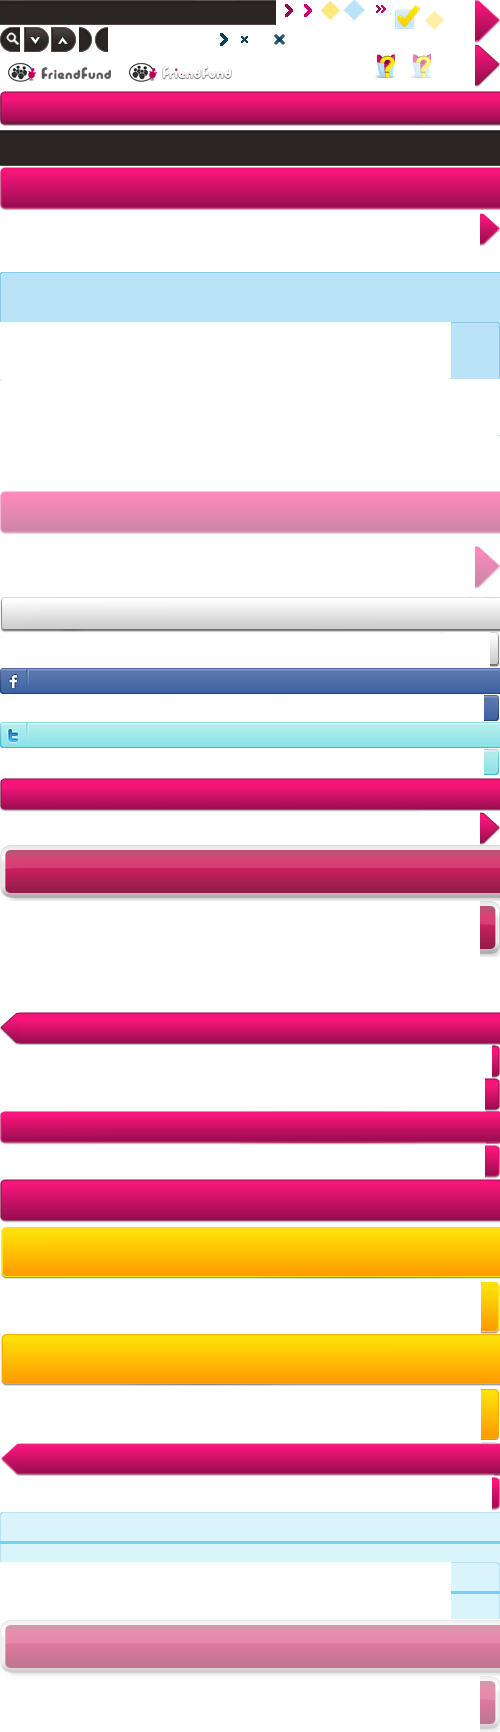
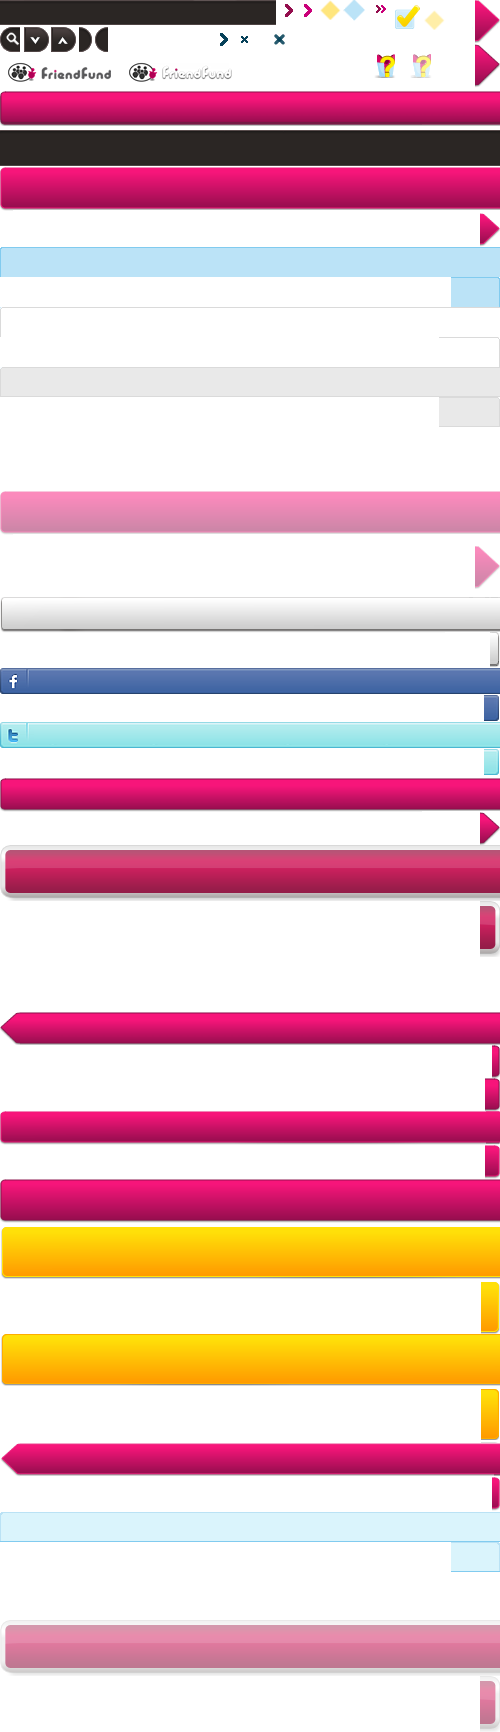
pool admin page redesign starting and datewidget restyle

Changed region(s): [[0.0, 0.1247, 1.0, 0.2494], [0.0, 0.873, 0.9, 0.9042], [0.9, 0.873, 1.0, 0.9353]]

diff --git a/friendfund/public/css/message_block.css b/friendfund/public/css/message_block.css
@@ -272,94 +272,22 @@ input.small{width:50px;}
 	margin-bottom: 0
 }
 
-.inputcontainer {
-	position: relative;
-	float: left;
-	width: 100%;
-	padding-bottom: 5px;
-}
-#button_panel.product .inputcontainer{
- padding-bottom: 15px;
- background:url("/static/imgs/rounded-corner-big.png") no-repeat scroll 0 0 white;
-}
+.inputcontainer {position: relative;float: left;width: 100%;padding-bottom: 5px;}
+input.default {color: #999 !important;}
+.black_labeled_input {-moz-border-radius: 10px 10px 10px 10px;background: none repeat scroll 0 0 #EEF8FD;border: 1px solid #BBE3F7;padding: 2px 24px 2px 4px;}
+.black_labeled_input.dijitTextBox {margin: 0 0 10px;padding: 0px 24px 0px 4px;}
 
-label.black_labeled_container {
-	position: relative;
-	float: left;
-	padding-right: 30px;
-	font-size: 20px;
-	font-weight: bold;
-	color: #403834;
-	font-family: "Trebuchet MS", Helvetica, Jamrul, Arial, sans-serif;
-}
-div.black_labeled_container, div.white_labeled_container {
-	position: relative;
-	height:25px;
-	float: left;
-	margin-left: 12px;
-}
+.black_labeled_input .dijitInputField {color:#333;margin:2px 5px 0 !important;}
+.black_labeled_input .dijitTextBox {border: 0px solid transparent;color: #333;z-index:2px;}
+.dijitTextBoxError,
+	.dijitTextBoxError .dijitInputContainer {background-color: transparent !important;}
+.dijitTextBoxFocused .dijitInputContainer, 
+	.dijitTextBox {background-color: #EEF8FD !important;color: #333 !important;width: auto;}
 
-div.black_labeled_container.right, div.white_labeled_container.right {float: right;}
-label.black_labeled_container.right {float: right;}
+.dijitTooltipContainer {left: 10px;}
+.claro .dijitTextBox .dijitInputInner {padding: 1px 2px 1px 0;}
 
-div.black_labeled_container div.right_bracket {
-	position: absolute;
-	top: 0px;
-	height:25px;
-	width:12px;
-	right: -12px;
-	background: url(../imgs/inputfield.png?20101129) -80px -27px no-repeat;
-}
-div.black_labeled_container div.left_bracket {
-	position: absolute;
-	top: 0px;
-	height:25px;
-	width:10px;
-	left: -10px;
-	background: url(../imgs/inputfield.png?20101129) -95px -27px no-repeat;
-}
-div.black_labeled_container .black_labeled_input {
-	position: absolute;
-	left:0px;
-	padding:5px 0 4px;
-	height:16px;
-	color: #ffffff;
-	font-size: 13px;
-	border: 0px solid transparent;
-	background: url(../imgs/inputfield.png?20101129) 0px 0px no-repeat;
-}
 
-input.default {
-	color: #999 !important;
-}
-
-div.black_labeled_container input.black_labeled_input:focus div.black_labeled_container .black_labeled_input input:focus {
-	border: 0px solid transparent;
-	outline: none;
-}
-div.black_labeled_container a.button_open_down {
-	position: absolute;
-	top: 0px;
-	right: -20px;
-	width: 25px;
-	height: 25px;
-	cursor:pointer;
-	background: url(../imgs/inputfield.png?20101129) -24px -27px no-repeat;
-}
-div.black_labeled_container .black_labeled_input * {
-	color: #ffffff;
-}
-div.black_labeled_container .black_labeled_input div.dijitInputField {
-	margin: 5px 5px 0px 5px;
-	color: #ffffff;
-}
-div.black_labeled_container .black_labeled_input .dijitTextBox {
-	border: 0px solid transparent;
-	color: #ffffff;
-	width:90px;
-	margin-top:-5px;
-	z-index:2px;
-}
 div.black_labeled_container a.left_button_search {
 	position: absolute;
 	top: 0px;
@@ -537,8 +465,9 @@ a.panel_closer {
 	background-color: #BBE3F7;
 	line-height: 140%;
 }
-#pool_admin_slogan .slogan {margin: 10px;}
+#pool_admin_slogan .slogan {margin: 5px 10px 10px;}
 #pool_admin_slogan .sloganText {padding-top:5px;font-size: 12px;overflow:hidden}
+#description_editor.editable  .sloganText { background-color: white;font-size: 12px;overflow: hidden;padding: 5px 10px;margin-top:10px;}
 
 
 /*=========================================== Contributors ===========================================*/
@@ -716,7 +645,7 @@ div#fundstream.recentactivity div.rabodycol img {position: relative;width: 161px
 div#fundstream.recentactivity div.rabodycol img.profile {width: 120px;}
 
 
-div#mypools.recentactivity {position:relative;float: left;}
+div#mypools.recentactivity {position:relative;float: left;border-top: 1px solid #DADADA;}
 div#mypools.recentactivity div.raheader{background-color:#BBE3F7;padding-bottom:55px;padding-top:30px;}
 div#mypools.recentactivity div.raheadercol{border-bottom: dotted 3px white;margin: 0px 20px 0px 0px; 
 			position:relative;float: left;text-align: center;
@@ -967,10 +896,7 @@ width:13px; margin: 0 !important; }
 .spacerInput{ padding-bottom: 12px}
 #poolactions{ margin: 0 0 0 30px }
 
-div.black_labeled_container .black_labeled_input div.dijitInputField {
-	color:#FFFFFF;
-	margin:2px 5px 0 !important;
-}
+
 .marginRight30{ margin-right: 30px; width:425px;}
 .marginRight45{ margin-right: 45px; width:410px;}
 
@@ -1045,5 +971,5 @@ div.rcptProductPicture{margin:15px 0px; background: #fff;float:left; border:#ccc
 
 .editIcon {position:absolute;display:block;width:25px;height:25px;top:10px;right:-10px;background:url("../imgs/edit-icon.png") no-repeat scroll 0px 0px transparent;cursor:pointer;z-index:3}
 .raisedEditIcon {background: transparent url("http://dev.friendfund.de/static/imgs/edit-icon.png") scroll 100% 0px no-repeat;
-				cursor: pointer;display: block;height: 25px;padding: 9px 29px 0 ;position: absolute;right: 0px;top: -28px;z-index: 3;}
+				cursor: pointer;display: block;height: 25px;padding: 9px 29px 0 ;position: absolute;right: 10px;top: 5px;z-index: 3;}
 #thankyou_editor .editIcon{right:-10px;top:23px;}

diff --git a/friendfund/public/css/site.css b/friendfund/public/css/site.css
@@ -313,11 +313,6 @@ div#occasion_button_bar {
 	font-weight:bold;
 	text-align:center;
 }
-.dijitTextBoxFocused .dijitInputContainer, .dijitTextBox {background-color: transparent !important;color: #ffffff !important;}
-.dijitTextBoxError,  .dijitTextBoxError .dijitInputContainer {background-color: transparent !important;}
-.dijitTextBoxError input.dijitValidationInner, .dijitTextBox input.dijitArrowButtonInner {height: 20px !important;}
-.dijitTooltipContainer {left: 10px;}
-
 #product_suggestions {
 	padding-bottom:20px;
 	float:left;
@@ -468,13 +463,11 @@ label.fb_filter {font-weight:bold;}
 .TabsContainer{ float: left; padding-left: 10px;width:880px}
 a.methodselector{display: block; position: relative; z-index: 2; float: left;margin-left: 5px;padding-right:15px;font-size:14px;font-weight:bold;font-family:"Trebuchet MS";text-align:center}
 a.methodselector img{position:relative;top:3px;}
-a.methodselector.ajaxlink{background:url("../imgs/inputfield.png?20101129") no-repeat scroll 100% -1562px transparent;min-width:145px;}
-
 a.methodselector span {padding:0 0 0 15px;color:#403834;display:block;line-height:30px; height:30px;}
+a.methodselector.ajaxlink{background:url("../imgs/inputfield.png?20101129") no-repeat scroll 100% -1542px transparent;min-width:145px;}
 a.methodselector.ajaxlink span {cursor:pointer;background:url("../imgs/inputfield.png?20101129") no-repeat scroll 0 -1512px transparent;}
-
-a.methodselector.selected {background:url("../imgs/inputfield.png?20101129") no-repeat scroll 100% -322px transparent;}
-a.methodselector.selected span {background:url("../imgs/inputfield.png?20101129") no-repeat scroll 0 -272px transparent;}
+a.methodselector.selected {background-position:100% -277px;}
+a.methodselector.selected span {background-position:0 -247px;}
 
 
 #lowerbody_container.fullbackground{background-color: #BBE3F7;}
@@ -922,21 +915,20 @@ div.window_container  div.window div.popupContent ol li{
 	padding: 0px 30px 30px;
 }
 .tabContainer {
-	background-color:#E9E9E9;
-	border-bottom:1px solid #DADADA;
-	height:35px;
-	left:0;
-	padding:18px 0 0 30px;
-	position:relative;
-	top:-9px;
-	width:950px;
-	z-index:2;
+	float: left;
+	background-color: #E9E9E9;
+	margin-top: -9px;
+	padding: 18px 0px 0px 30px;
+	position: relative;
+	width: 950px;
+	z-index: 2;
 }
-.tabContainer a {	 color:#403834;display:block;float:left;padding-right:15px;text-align:center;}
-.tabContainer a span {color:#403834;display:block;float:left;
-	cursor:pointer;font-size:18px;padding:7px 0px 8px 15px;font-family: Trebuchet MS,Arial;}
-.tabContainer a.selected {background:url("../imgs/inputfield.png?20101129") no-repeat scroll 100% -435px transparent;}
-.tabContainer a.selected span {background:url("../imgs/inputfield.png?20101129") no-repeat scroll 0 -379px transparent;}
+.tabContainer a { margin: 0 15px -1px 0;color: #403834;display: block;float: left;min-width: 145px;padding-right: 15px;text-align: center;background:url("../imgs/inputfield.png?20101129") no-repeat scroll 100% -397px transparent;}
+.tabContainer a span {color: #403834;cursor: pointer;display: block;padding-left: 15px;font-size:14px;font-weight:bold;font-family:"Trebuchet MS";height: 30px;line-height: 30px;background:url("../imgs/inputfield.png?20101129") no-repeat scroll 0 -367px transparent;}
+
+.tabContainer a.selected {background-position:100% -337px;}
+.tabContainer a.selected span {background-position:0 -307px;}
+
 
 .subCategories{clear:both; font-size: 20px ; font-weight: bold; color: #403834; height: 47px; line-height: 47px;padding-top: 28px; font-family: Trebuchet MS,Arial}
 .tooltipBoxMyPools{ height: 45px; background:none repeat scroll 0 0 #403835; position: relative}
@@ -1030,7 +1022,7 @@ h2.small{ font-size: 20px !important}
 .maleFemale label{ display:block !important;width:90px !important; float:left !important; margin:0 0 0 5px !important}
 .maleFemale input{ display:block !important;width:15px !important; float:left}
 .passwordFields .maleFemale label{ float: right !important;}
-#poolsettings{ margin:0 30px 30px 30px}
+#poolsettings{ clear:both; padding:30px 0px 0px}
 
 #contributioncontainer{ margin:0px 30px 30px; padding-top: 5px !important}
 

diff --git a/friendfund/templates/occasion/panel.html b/friendfund/templates/occasion/panel.html
@@ -12,13 +12,13 @@ from datetime import date, timedelta
 	${html.clearline()|n}
 	<div id="occasion_button_bar">
 		%for occ in c.olist:
-			<a href="#" class="occasion_panel_button">
+			<a class="occasion_panel_button">
 				<div class="selector ${c.key != occ.key and ' ' or 'selected'}" imgurl="/static/imgs/${occ.picture_url}" 
 					custom="${int(occ.custom or 0)}" key="${occ.key}" displayname="${occ.get_display_name()}" date="${occ.internal_date_format}">
 					<img src="/static/imgs/${occ.picture_url}"/>
 					<div class="label">
 					%if occ.custom:
-						${forms.black_input_text(occ.key, "name", value=c.name, default=_("EVENT_PANEL_Just because..."), width=106)}
+						<input class="black_labeled_input default" _default_text="${_("EVENT_PANEL_Just because...")}" type="text" id="${occ.key}" name="name" value="${c.name or _("EVENT_PANEL_Just because...")}" style="width:106px;"/>
 					%else:
 						${occ.get_display_name()}
 					%endif
@@ -30,8 +30,9 @@ from datetime import date, timedelta
 			<div style="margin-right:50px;"> 
 				<a class="submitSmall occasion_submitter"><span>${_("EVENT_PANEL_Submit")}</span></a>
 			</div>
+			${_("EVENT_PANEL_And Pick a Date")}
 			<div style="top: 5px; position: relative;float:right;margin-right:50px;">
-				${forms.black_input_datepicker("datestamp", "datestamp", c.date, label=_("EVENT_PANEL_And Pick a Date"), width=100, args=[("constraints", "{min:'%s'}"%c.lower_limit_date)])|n}
+				<div id="datestamp" jsid="datestamp" type="text" class="black_labeled_input" name="datestamp" value="${c.date}" dojoType="dijit.form.DateTextBox" constraints="{min:'${c.lower_limit_date}'}"></div>
 			</div>
 		</div>
 	</div>

diff --git a/friendfund/templates/pool/settings_admin.html b/friendfund/templates/pool/settings_admin.html
@@ -5,6 +5,7 @@
 <%namespace name="actions" file="actions/settings_action.html"/>
 <%namespace name="actions_content" file="actions/settings_action_content.html"/>
 <%namespace name="description" file="parts/description.html"/>
+<%namespace name="settings_common" file="parts/settings.html"/>
 
 <%def name="scripts()">
 	${links.js('friendfund/AutoRotator.js')}
@@ -99,15 +100,16 @@
 
 
 <%def name="title()">${_("POOLSETTINGS_TITLE_Pool Admin")}</%def>
-<%def name="page_slogan()">
-	<div id="page_slogan">${_("POOLSETTINGS_LABEL_Pool Admin")}</div>
-</%def>
-
+${settings_common.render_tabs("mypools")|n}
+<div style="clear"both;height:30px;"></div>
 	
+<div id="poolsettings">
 	<div id="pool_admin_slogan"><div class="slogan">${description.view(c.pool)|n}</div></div>
 	<div id="pool_admin_pic"><img src="${c.pool.admin.get_profile_pic()}"/></div>
-	${html.clearline(15)|n}
-<div id="poolsettings" class="innerbody">
+	
+	
+	
+	<div id="lowerbody" class="innerbody">
 	%if c.psettings.is_funded() or c.psettings.actions:
 	<div  class="panel_title" style="clear:both">
 		${_("POOLSETTINGS_LABEL_Actions:")}
@@ -140,8 +142,9 @@
 		</div>
 	%endif
 	${html.clearline()|n}
-	<div style="padding:20px 30px;float:left;width:880px;">
+	<div style="padding:20px 30px;float:left;width:860px;">
 		<a class="submitSmallLeft" href="${url('ctrlpoolindex', controller='pool', pool_url=c.pool_url)}"><span>${_("POOLSETTINGS_LABEL_Back To Pool")}</span></a>
 	</div>
 	${html.clearline()|n}
+	</div>
 </div>

diff --git a/friendfund/templates/pool/parts/settings.html b/friendfund/templates/pool/parts/settings.html
@@ -1,0 +1,12 @@
+
+<%def name="render_tabs(selected)">
+	<div class="tabContainer">
+		%if selected=="mypools":
+			<a class="selected"><span>${_("POOL_ADMIN_TAB_Pool Settings")}</span></a>
+			<a class="unselected" href="${url(controller='pool', pool_url=c.pool.p_url, action='addresses')}"><span>${_("POOL_ADMIN_TAB_Shipping and Billing Details")}</span></a>
+		%else:
+			<a class="unselected" href="${url(controller='pool', pool_url=c.pool.p_url, action='settings')}"><span>${_("POOL_ADMIN_TAB_Pool Settings")}</span></a>
+			<a class="selected"><span>${_("POOL_ADMIN_TAB_Shipping and Billing Details")}</span></a>
+		%endif
+	</div>
+</%def>

diff --git a/friendfund/templates/pool/parts/description.html b/friendfund/templates/pool/parts/description.html
@@ -17,10 +17,10 @@
 </%def>
 
 
-<%def name="view(pool)">
-	<div id="description_editor">
+<%def name="view(pool, editable = True)">
+	<div id="description_editor" class="${editable and "editable" or ""}">
 		<span class="triangle bluetriangle"></span>
-		%if pool.am_i_admin(c.user):
+		%if pool.am_i_admin(c.user) and editable:
 		<div class="raisedEditIcon" onclick="loadElement('${url(controller='pool', pool_url=pool.p_url, action='edit_description')}', 'description_editor', {});">${_("POOL_DESCRIPTION_edit")}</div>
 		%endif
 		<div class="bold">${pool.admin.name} ${_("POOL_PAGE_DESCRIPTON_(Pool Admin)")|n}</div>

diff --git a/friendfund/templates/pool/pool.html b/friendfund/templates/pool/pool.html
@@ -115,7 +115,7 @@
 
 
 <%def name="admin_slogan(locals)">
-	<div id="pool_admin_slogan"><div class="slogan">${description.view(c.pool)|n}</div></div>
+	<div id="pool_admin_slogan"><div class="slogan">${description.view(c.pool, False)|n}</div></div>
 	<div id="pool_admin_pic"><img src="${c.pool.admin.get_profile_pic()}"/></div>
 </%def>
 

diff --git a/friendfund/public/js/friendfund/HomePagePanel.js b/friendfund/public/js/friendfund/HomePagePanel.js
@@ -153,9 +153,6 @@ dojo.declare("friendfund.HomePagePanel", null, {
 				datewijit.focus();
 			}
 		}
-		evt.stopPropagation();
-		evt.preventDefault();
-		return false;
 	},
 	occasion_selected : function(_t, evt){
 		var selected = dojo.query(".occasion_panel_button div.selector.selected", _t.ref_node);
